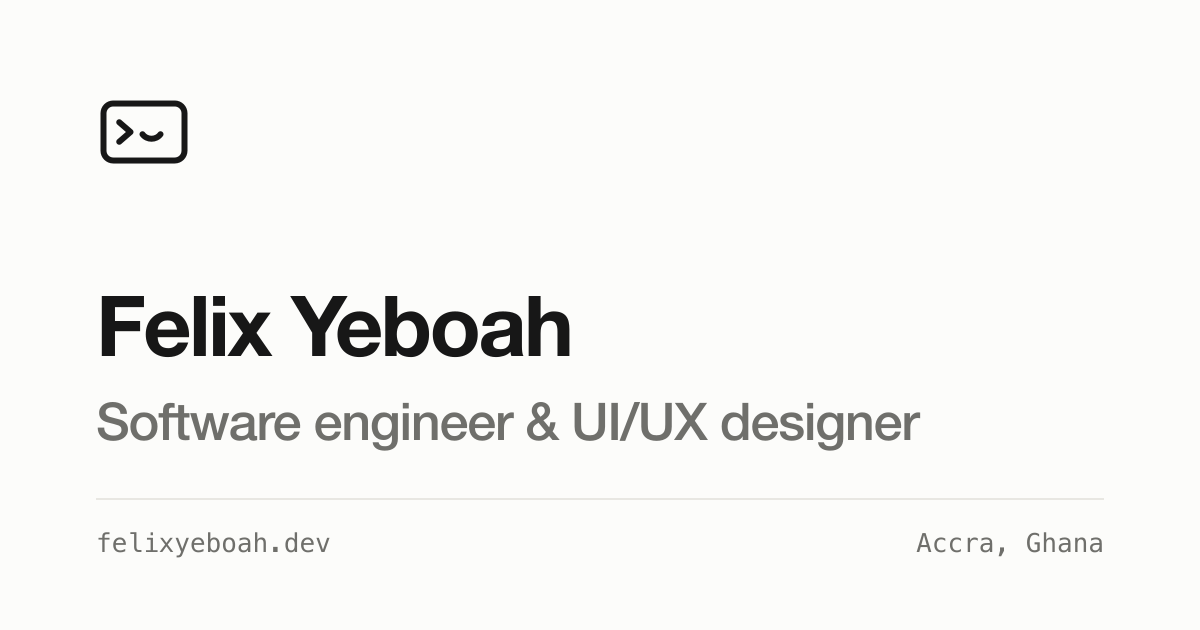
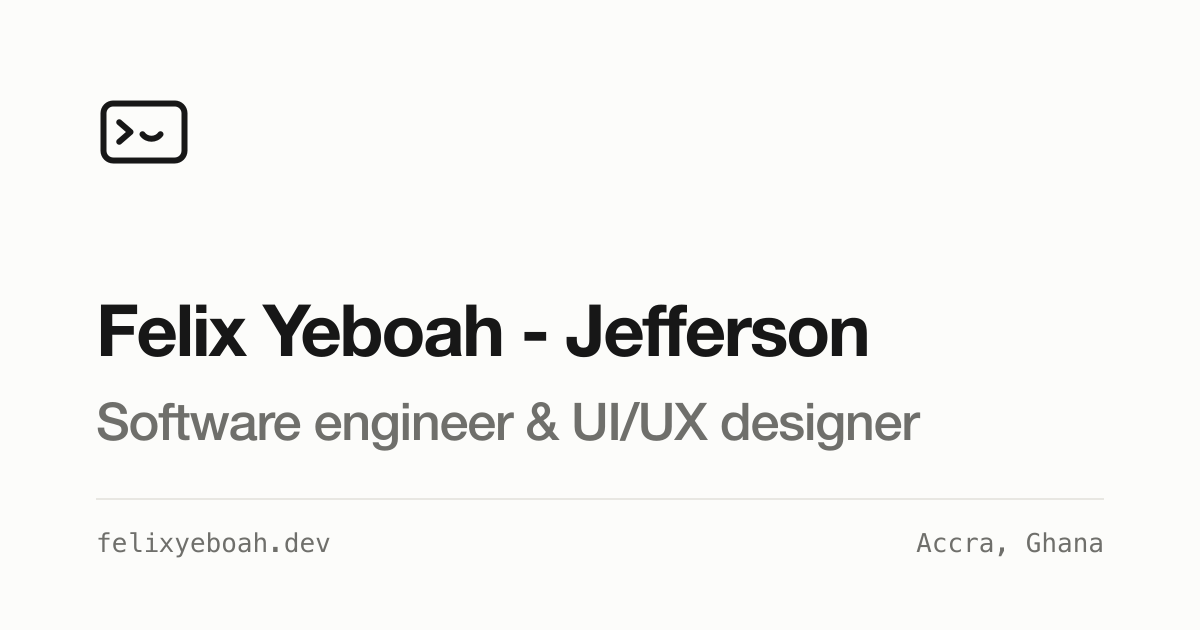
feat: show the name as Felix Yeboah - Jefferson across the site

Changed region(s): [[0.0617, 0.4524, 0.74, 0.573]]

diff --git a/lib/site/project-details.ts b/lib/site/project-details.ts
@@ -205,7 +205,7 @@ export const isLong = (name: string) => name.includes(' ') && name.length > 10;
 export const DETAILS: Record<string, ProjectDetail> = {
     'harbour-price': {
         rich: true,
-        description: 'Harbour Price: a complete commerce platform for Accra, connecting groceries, hot meals, in-store sales and delivery. Designed and built by Felix Yeboah.',
+        description: 'Harbour Price: a complete commerce platform for Accra, connecting groceries, hot meals, in-store sales and delivery. Designed and built by Felix Yeboah - Jefferson.',
         status: 'Completed',
         tagline: ['Four counters. One basket.', 'From the harbour to your doorstep.'],
         credits: [
@@ -365,7 +365,7 @@ export const DETAILS: Record<string, ProjectDetail> = {
     },
     'reevit': {
         rich: true,
-        description: 'Reevit: payments that don’t miss. Every charge goes through the merchant’s own Paystack, Hubtel or Flutterwave, and fails over inside the same tap. Designed and engineered by Felix Yeboah.',
+        description: 'Reevit: payments that don’t miss. Every charge goes through the merchant’s own Paystack, Hubtel or Flutterwave, and fails over inside the same tap. Designed and engineered by Felix Yeboah - Jefferson.',
         formerly: 'Primeflow',
         status: 'Live',
         tagline: ['Payments that don’t miss.', 'One provider goes down, the customer never knows.'],
@@ -554,7 +554,7 @@ export const DETAILS: Record<string, ProjectDetail> = {
             label: 'Why it exists',
             text: 'Not glamorous. Just useful.',
             em: 'And sometimes, that’s all innovation really needs to be.',
-            by: 'Felix Yeboah',
+            by: 'Felix Yeboah - Jefferson',
             role: 'Founder, Reevit · from the launch post',
             mark: 'FY',
         },
@@ -575,7 +575,7 @@ export const DETAILS: Record<string, ProjectDetail> = {
     },
     'miss-cookie-spices': {
         rich: true,
-        description: 'Miss Cookie Spices: a custom online store for freshly blended Ghanaian spices, with Hubtel payments and SMS. Built by Felix Yeboah.',
+        description: 'Miss Cookie Spices: a custom online store for freshly blended Ghanaian spices, with Hubtel payments and SMS. Built by Felix Yeboah - Jefferson.',
         status: 'Live',
         tagline: ['Great food starts with great spices.', 'A storefront built for mobile money.'],
         credits: [

diff --git a/lib/site/post-render.ts b/lib/site/post-render.ts
@@ -1317,7 +1317,7 @@ export function feedXML(posts: PostMeta[]) {
       <link>${url}</link>
       <guid isPermaLink="true">${url}</guid>
       <pubDate>${rfc822(p.date)}</pubDate>
-      <dc:creator>Felix Yeboah</dc:creator>
+      <dc:creator>Felix Yeboah - Jefferson</dc:creator>
 ${p.categories.map((c) => `      <category>${xmlEsc(catLabel(c))}</category>`).join('\n')}
       <description>${xmlEsc(dekText(p))}</description>
       <content:encoded>${cdata(cover + note + r.html)}</content:encoded>
@@ -1327,14 +1327,14 @@ ${p.categories.map((c) => `      <category>${xmlEsc(catLabel(c))}</category>`).j
     return `<?xml version="1.0" encoding="UTF-8"?>
 <rss version="2.0" xmlns:atom="http://www.w3.org/2005/Atom" xmlns:content="http://purl.org/rss/1.0/modules/content/" xmlns:dc="http://purl.org/dc/elements/1.1/">
   <channel>
-    <title>Felix Yeboah: Writing</title>
+    <title>Felix Yeboah - Jefferson: Writing</title>
     <link>${SITE_URL}/writing</link>
-    <description>Notes from the work: engineering, Remix, Go, and the occasional year in review. By Felix Yeboah, a software engineer and designer in Accra.</description>
+    <description>Notes from the work: engineering, Remix, Go, and the occasional year in review. By Felix Yeboah - Jefferson, a software engineer and designer in Accra.</description>
     <language>en</language>
     <atom:link href="${CANON}feed.xml" rel="self" type="application/rss+xml"/>
     <lastBuildDate>${rfc822(posts[0].date)}</lastBuildDate>
-    <managingEditor>me@felixyeboah.dev (Felix Yeboah)</managingEditor>
-    <image><url>${cld(AUTHOR_IMG, 144, 'c_fill,h_144')}</url><title>Felix Yeboah: Writing</title><link>${SITE_URL}/writing</link></image>
+    <managingEditor>me@felixyeboah.dev (Felix Yeboah - Jefferson)</managingEditor>
+    <image><url>${cld(AUTHOR_IMG, 144, 'c_fill,h_144')}</url><title>Felix Yeboah - Jefferson: Writing</title><link>${SITE_URL}/writing</link></image>
 ${items}
   </channel>
 </rss>

diff --git a/astro/src/photobook/shared.js b/astro/src/photobook/shared.js
@@ -752,7 +752,7 @@
         if (nav && !nav.children.length) {
             nav.innerHTML =
                 '<div class="nav__bar">' +
-                '<a class="brand" href="index.html" aria-label="Felix Yeboah, home"><span class="brand__mark" aria-hidden="true">FY</span><span class="brand__name">Felix Yeboah</span></a>' +
+                '<a class="brand" href="index.html" aria-label="Felix Yeboah - Jefferson, home"><span class="brand__mark" aria-hidden="true">FY</span><span class="brand__name">Felix Yeboah - Jefferson</span></a>' +
                 '<nav aria-label="Primary"><ul class="nav__links">' +
                 NAV.map(function (n) {
                     return '<li><a href="' + href(n[0]) + '"' + (n[0] === 'photos' ? ' aria-current="page"' : '') + '>' + n[1] + '</a></li>';
@@ -806,8 +806,8 @@
         var foot = document.querySelector('footer.footer');
         if (foot && !foot.children.length) {
             foot.innerHTML =
-                '<div class="footer__word" aria-hidden="true">Felix Yeboah</div>' +
-                '<div class="wrap footer__row mono"><span>&copy; ' + new Date().getFullYear() + ' Felix Yeboah</span><span>Designed &amp; built in Accra</span>' +
+                '<div class="footer__word" aria-hidden="true">Felix Yeboah - Jefferson</div>' +
+                '<div class="wrap footer__row mono"><span>&copy; ' + new Date().getFullYear() + ' Felix Yeboah - Jefferson</span><span>Designed &amp; built in Accra</span>' +
                 '<nav class="footer__links" aria-label="Elsewhere"><a href="' + MAIL + '">Email</a><a href="https://github.com/felixyeboah" target="_blank" rel="noopener">GitHub</a><a href="https://x.com/sudocode_" target="_blank" rel="noopener">X / Twitter</a></nav>' +
                 '<a href="#top">Back to top &uarr;</a></div>';
         }

diff --git a/config/site.ts b/config/site.ts
@@ -21,9 +21,9 @@ export type SiteConfig = {
 };
 
 export const siteConfig: SiteConfig = {
-  name: 'Felix Yeboah',
-  title: 'Felix Yeboah',
-  titleAlt: 'Felix Yeboah | Portfolio',
+  name: 'Felix Yeboah - Jefferson',
+  title: 'Felix Yeboah - Jefferson',
+  titleAlt: 'Felix Yeboah - Jefferson | Portfolio',
   description:
     "Hi I'm Felix, A self-taught Software Engineer and UI/UX Designer from Accra, Ghana. I learn, build and share my knowledge with the world. I'm passionate about building quality software that makes the world a better place.",
   url: 'https://felixyeboah.dev',
@@ -33,7 +33,7 @@ export const siteConfig: SiteConfig = {
   ogImage: '/opengraph-image', // Updated to use the file-based OG image
   favicon: '/static/favicon.png', // Path is relative to the public directory
   shortName: 'FelixYeboah',
-  author: 'Felix Yeboah',
+  author: 'Felix Yeboah - Jefferson',
   keywords: [
     'Software Engineer',
     'Go',
